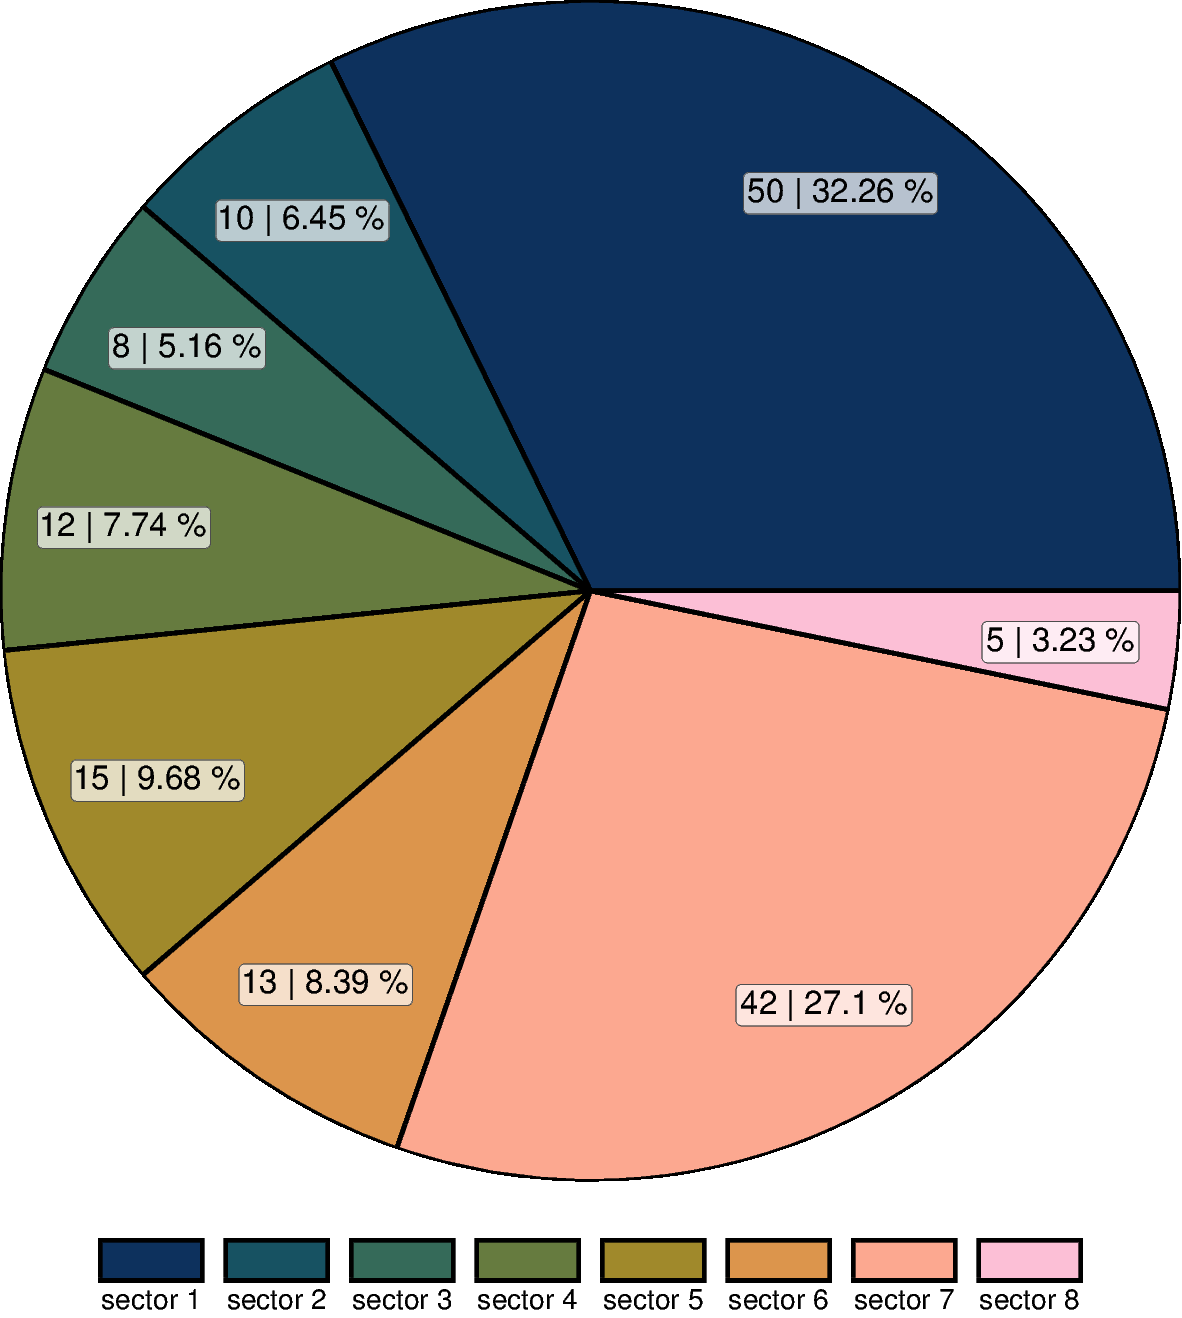
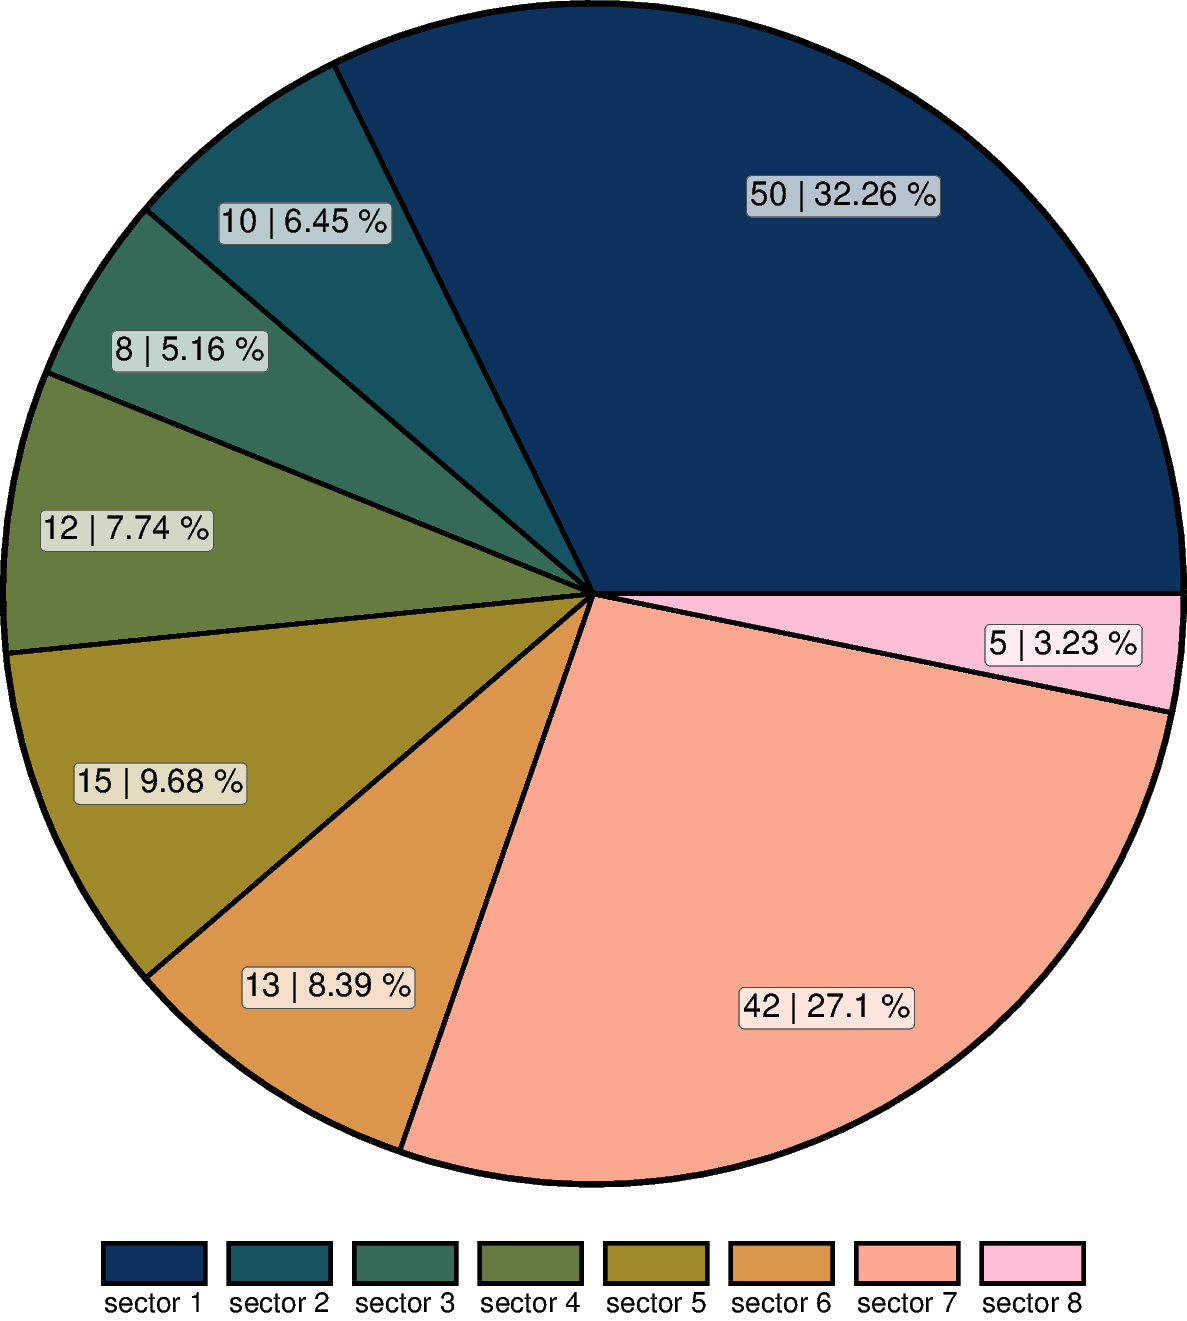
Improve code for pen used for outline | Fix frame for pie chart

diff --git a/014_general_stats/04_pie_chart/pie_chart_pygmt.py b/014_general_stats/04_pie_chart/pie_chart_pygmt.py
@@ -117,7 +117,7 @@ def pie_chart(
     # Create plot
     # -------------------------------------------------------------------------
     fig = pygmt.Figure()
-    pygmt.config(FORMAT_GEO_MAP="+D",  MAP_FRAME_PEN=outline)
+    pygmt.config(FORMAT_GEO_MAP="+D")
     fig.basemap(region=[0, 360, 0, 1], projection=f"P{radius_out}c", frame="+n")
 
     pygmt.makecpt(
@@ -131,15 +131,18 @@ def pie_chart(
     for i_sector, percent in enumerate(percents):
         angel_end = angel_start + percent * 3.6  # Convert percent to degrees
 
-        fig.plot(
-            x=0,
-            y=0,
-            style=f"w{radius_out}c/{angel_start}/{angel_end}+i{radius_in}c",
-            pen=outline,
-            fill="+z",
-            zvalue=i_sector,
-            cmap=True,
-        )
+        args_sector = {
+            "x": 0,
+            "y": 0,
+            "style": f"w{radius_out}c/{angel_start}/{angel_end}+i{radius_in}c",
+            "fill": "+z",
+            "zvalue": i_sector,
+            "cmap": True,
+        }
+        if outline in [None, False, 0, "0p"]:
+            fig.plot(**args_sector)
+        else:
+            fig.plot(pen=outline, **args_sector)
 
         angel_start = angel_end
 
@@ -153,7 +156,7 @@ def pie_chart(
             move_text="label",
         )
 
-    # Add labels on top of sectors
+    # Add labels within the sectors
     if sector_labels != None:
 
         angel_start = 0
@@ -182,6 +185,11 @@ def pie_chart(
             )
 
             angel_start = angel_end
+
+    # Add frame on top
+    if outline not in [None, False, 0, "0p"]:
+        pygmt.config(MAP_FRAME_PEN=outline)
+        fig.basemap(frame=0)
 
     fig.show()
 

diff --git a/014_general_stats/03_bar_chart/bar_chart_pygmt.py b/014_general_stats/03_bar_chart/bar_chart_pygmt.py
@@ -163,7 +163,11 @@ def bar_chart(
     )
 
     # Plot bars
-    fig.plot(data=df_bars, style=f"{style}{bar_width}c", pen=outline, cmap=True)
+    args_bar = {"data": df_bars, "style": f"{style}{bar_width}c", "cmap": True}
+    if outline in [None, False, 0, "0p"]:
+        fig.plot(**args_bar)
+    else:
+        fig.plot(pen=outline, **args_bar)
 
     if colorbar == True:
         fig.colorbar(
@@ -175,7 +179,7 @@ def bar_chart(
             move_text="label",
         )
 
-    # Add labels on top of bars
+    # Add labels on top of the bars
     if bar_labels != None:
 
         for i_bar, percent in enumerate(percents):
